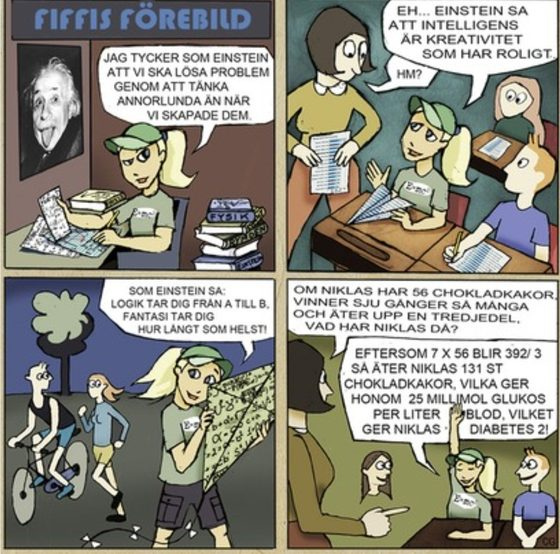
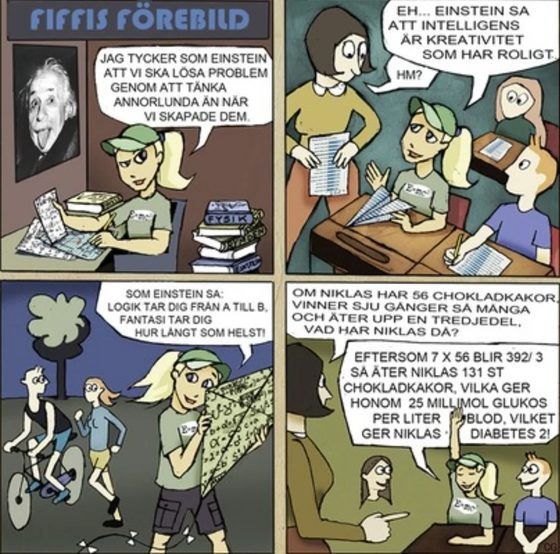
Beskär vita kanter på illustrationerna
Claude-Session: https://claude.ai/code/session_01KKpdg1kibzxrmRUHzSLNaJ

diff --git a/index.html b/index.html
@@ -104,8 +104,8 @@
     <a class="art" href="assets/img/illu/23.webp"><picture><source type="image/webp" srcset="assets/img/illu/23-t.webp"><img src="assets/img/illu/23-t.jpg" width="404" height="560" loading="lazy" alt="Illustration av Fabler &amp; Fakta Studio"></picture></a>
     <a class="art" href="assets/img/illu/25.webp"><picture><source type="image/webp" srcset="assets/img/illu/25-t.webp"><img src="assets/img/illu/25-t.jpg" width="390" height="560" loading="lazy" alt="Illustration av Fabler &amp; Fakta Studio"></picture></a>
     <a class="art" href="assets/img/illu/24.webp"><picture><source type="image/webp" srcset="assets/img/illu/24-t.webp"><img src="assets/img/illu/24-t.jpg" width="505" height="560" loading="lazy" alt="Illustration av Fabler &amp; Fakta Studio"></picture></a>
-    <a class="art" href="assets/img/illu/21.webp"><picture><source type="image/webp" srcset="assets/img/illu/21-t.webp"><img src="assets/img/illu/21-t.jpg" width="560" height="540" loading="lazy" alt="Illustration av Fabler &amp; Fakta Studio"></picture></a>
-    <a class="art" href="assets/img/illu/26.webp"><picture><source type="image/webp" srcset="assets/img/illu/26-t.webp"><img src="assets/img/illu/26-t.jpg" width="560" height="554" loading="lazy" alt="Illustration av Fabler &amp; Fakta Studio"></picture></a>
+    <a class="art" href="assets/img/illu/21.webp?v=2"><picture><source type="image/webp" srcset="assets/img/illu/21-t.webp?v=2"><img src="assets/img/illu/21-t.jpg?v=2" width="560" height="540" loading="lazy" alt="Illustration av Fabler &amp; Fakta Studio"></picture></a>
+    <a class="art" href="assets/img/illu/26.webp?v=2"><picture><source type="image/webp" srcset="assets/img/illu/26-t.webp?v=2"><img src="assets/img/illu/26-t.jpg?v=2" width="560" height="554" loading="lazy" alt="Illustration av Fabler &amp; Fakta Studio"></picture></a>
     <a class="art" href="assets/img/illu/01.webp"><picture><source type="image/webp" srcset="assets/img/illu/01-t.webp"><img src="assets/img/illu/01-t.jpg" width="353" height="560" loading="lazy" alt="Illustration av Fabler &amp; Fakta Studio"></picture></a>
     <a class="art" href="assets/img/illu/02.webp"><picture><source type="image/webp" srcset="assets/img/illu/02-t.webp"><img src="assets/img/illu/02-t.jpg" width="403" height="560" loading="lazy" alt="Illustration av Fabler &amp; Fakta Studio"></picture></a>
     <a class="art" href="assets/img/illu/03.webp"><picture><source type="image/webp" srcset="assets/img/illu/03-t.webp"><img src="assets/img/illu/03-t.jpg" width="420" height="560" loading="lazy" alt="Illustration av Fabler &amp; Fakta Studio"></picture></a>
@@ -122,7 +122,7 @@
     <a class="art" href="assets/img/illu/16.webp"><picture><source type="image/webp" srcset="assets/img/illu/16-t.webp"><img src="assets/img/illu/16-t.jpg" width="422" height="560" loading="lazy" alt="Illustration av Fabler &amp; Fakta Studio"></picture></a>
     <a class="art" href="assets/img/illu/17.webp"><picture><source type="image/webp" srcset="assets/img/illu/17-t.webp"><img src="assets/img/illu/17-t.jpg" width="560" height="526" loading="lazy" alt="Illustration av Fabler &amp; Fakta Studio"></picture></a>
     <a class="art" href="assets/img/illu/18.webp"><picture><source type="image/webp" srcset="assets/img/illu/18-t.webp"><img src="assets/img/illu/18-t.jpg" width="560" height="451" loading="lazy" alt="Illustration av Fabler &amp; Fakta Studio"></picture></a>
-    <a class="art" href="assets/img/illu/19.webp"><picture><source type="image/webp" srcset="assets/img/illu/19-t.webp"><img src="assets/img/illu/19-t.jpg" width="560" height="430" loading="lazy" alt="Illustration av Fabler &amp; Fakta Studio"></picture></a>
+    <a class="art" href="assets/img/illu/19.webp?v=2"><picture><source type="image/webp" srcset="assets/img/illu/19-t.webp?v=2"><img src="assets/img/illu/19-t.jpg?v=2" width="560" height="430" loading="lazy" alt="Illustration av Fabler &amp; Fakta Studio"></picture></a>
     <a class="art" href="assets/img/illu/20.webp"><picture><source type="image/webp" srcset="assets/img/illu/20-t.webp"><img src="assets/img/illu/20-t.jpg" width="362" height="560" loading="lazy" alt="Illustration av Fabler &amp; Fakta Studio"></picture></a>
     </div>
   </section>
